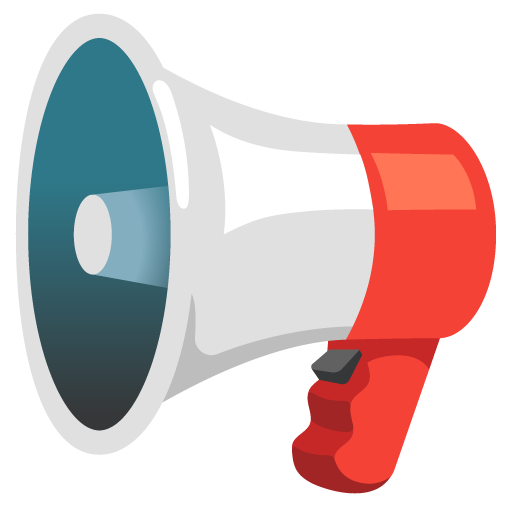
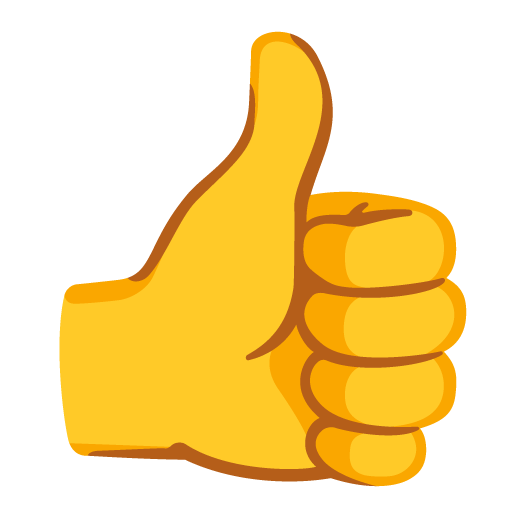
achievements: animate the support badges + cache-bust medal art (#8)
* achievements: animated hover for the two support badges

The support badges now play their Noto animation on hover/unlock like the
rest of the set:
- tell-friend (Word of Mouth, handshake): add its Noto Lottie.
- share-social: the loudspeaker has no Noto animation, so swap it for a
  thumbs-up (renamed "Signal Boost") and add that Lottie. The megaphone,
  which is animated, is already the "Voice Carries" medal.

* achievements: cache-bust medal art by app version

Medal PNGs and Lotties are served with a day-long cache; when a medal's art
changes (a new release) the browser kept showing the stale image. Append the
app version to the asset URLs so each release fetches fresh art. Persisted in
localStorage so it's known on the first render of later visits.

diff --git a/web/index.html b/web/index.html
@@ -3683,6 +3683,7 @@ async function loadAbout(){
   let when = "";
   try { if (a.commit_time) when = ` <span style="color:var(--text3); font-weight:400;">(${new Date(a.commit_time).toLocaleDateString(numLoc())})</span>`; } catch {}
   aboutInfo = a;
+  setAssetVer(a.version);
   box.innerHTML =
     row(t("Version"), `<span id="about-version">${a.version || "—"}</span>`) +
     row(t("Git commit"), commit + when) +
@@ -3889,6 +3890,7 @@ let updateState = null;
 async function loadUpdate(force){
   try { updateState = await api("/api/update" + (force ? "?force=1" : "")); }
   catch { updateState = null; }
+  if (updateState && updateState.current) setAssetVer(updateState.current);
   applyStatusLayout();
   if ($("tab-status").classList.contains("active")) loadStats();
   renderAboutVersion();
@@ -4077,9 +4079,23 @@ let achState = null;
 let achImages = new Set();    // ids that ship a medal PNG (else the emoji is used)
 let achAnim = new Set();      // ids that also have a Lottie animation (unlock/hover)
 let achFreshIds = new Set(); // earned this session — get a dot until you visit the page
+// Medal art and animations are static assets cached for a day; bust that cache
+// by the app version so a new release (which is when medals change) always shows
+// fresh art instead of a stale image. Persisted so it's known on the very first
+// render of later visits.
+let ASSET_VER = ""; try { ASSET_VER = localStorage.getItem("vito-asset-ver") || ""; } catch {}
+const assetV = () => ASSET_VER ? "?v=" + encodeURIComponent(ASSET_VER) : "";
+function setAssetVer(v){
+  if (!v || v === "dev" || v === ASSET_VER) return;
+  ASSET_VER = v; try { localStorage.setItem("vito-asset-ver", v); } catch {}
+  // Re-render anything already showing medals so they pick up the new URL.
+  const at = $("tab-achievements"), st = $("tab-status");
+  if (at && at.classList.contains("active")) loadAchievements(true);
+  else if (st && st.classList.contains("active") && typeof loadStats === "function") loadStats();
+}
 // A medal is its shipped image when one exists, otherwise its emoji.
 function achMedalInner(x){
-  if (achImages.has(x.id)) return `<img src="/achievements/${x.id}.png" alt="" loading="lazy">`;
+  if (achImages.has(x.id)) return `<img src="/achievements/${x.id}.png${assetV()}" alt="" loading="lazy">`;
   return ahEsc(x.icon);
 }
 // The medal art is a static PNG; the ones with a Lottie come alive on unlock and
@@ -4103,7 +4119,7 @@ function mountLottie(container, id, loop){
     container.innerHTML = ""; // swap the static PNG for the animation once it's ready
     container._anim = lottie.loadAnimation({
       container, renderer: "svg", loop: !!loop, autoplay: true,
-      path: "/achievements/lottie/" + id + ".json",
+      path: "/achievements/lottie/" + id + ".json" + assetV(),
     });
   }).catch(() => {}); // no player, no problem — the static PNG stays
 }
@@ -4323,7 +4339,7 @@ if ($("ach-content")) {
     if (e.relatedTarget && card.contains(e.relatedTarget)) return; // still inside the card
     const medal = card.querySelector(".ach-medal"); if (!medal || !medal._anim) return;
     unmountLottie(medal);
-    medal.innerHTML = achImages.has(card.dataset.id) ? `<img src="/achievements/${card.dataset.id}.png" alt="" loading="lazy">` : "";
+    medal.innerHTML = achImages.has(card.dataset.id) ? `<img src="/achievements/${card.dataset.id}.png${assetV()}" alt="" loading="lazy">` : "";
   });
   // Claiming / unmarking the honour-system donation badges.
   $("ach-content").addEventListener("click", (e) => {

diff --git a/internal/achievements/achievements.go b/internal/achievements/achievements.go
@@ -123,7 +123,7 @@ var List = []Def{
 	// milestones and shown with a little extra sparkle when unlocked.
 	{ID: "donate-once", Group: GroupSupport, Icon: "☕", Name: "Coffee Angel", Desc: "Treated Vito to a coffee", Manual: true},
 	{ID: "donate-monthly", Group: GroupSupport, Icon: "😇", Name: "Guardian Angel", Desc: "A monthly supporter of Vito", Manual: true},
-	{ID: "share-social", Group: GroupSupport, Icon: "📢", Name: "Town Crier", Desc: "Shared Vito on social media", Manual: true},
+	{ID: "share-social", Group: GroupSupport, Icon: "👍", Name: "Signal Boost", Desc: "Shared Vito on social media", Manual: true},
 	{ID: "tell-friend", Group: GroupSupport, Icon: "🤝", Name: "Word of Mouth", Desc: "Told a friend about Vito", Manual: true},
 
 	// Words dictated, over your whole time with Vito.
